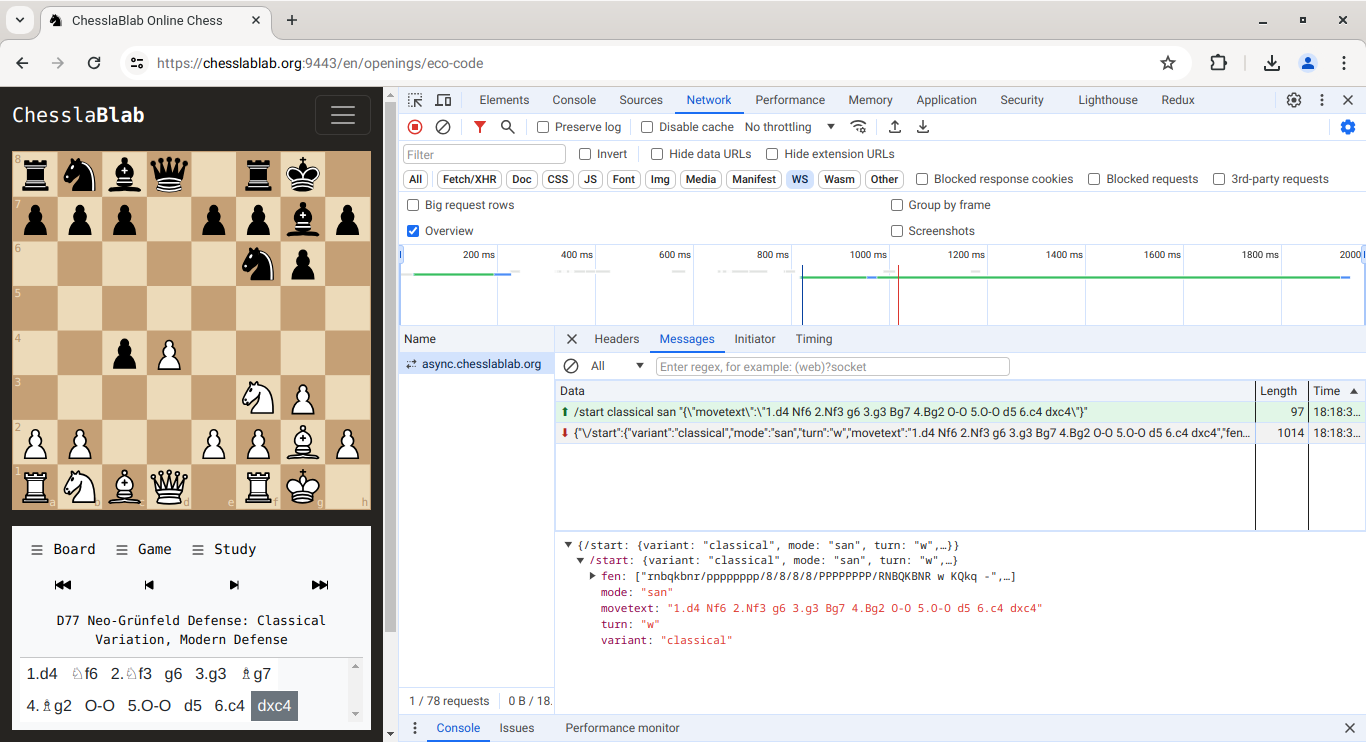
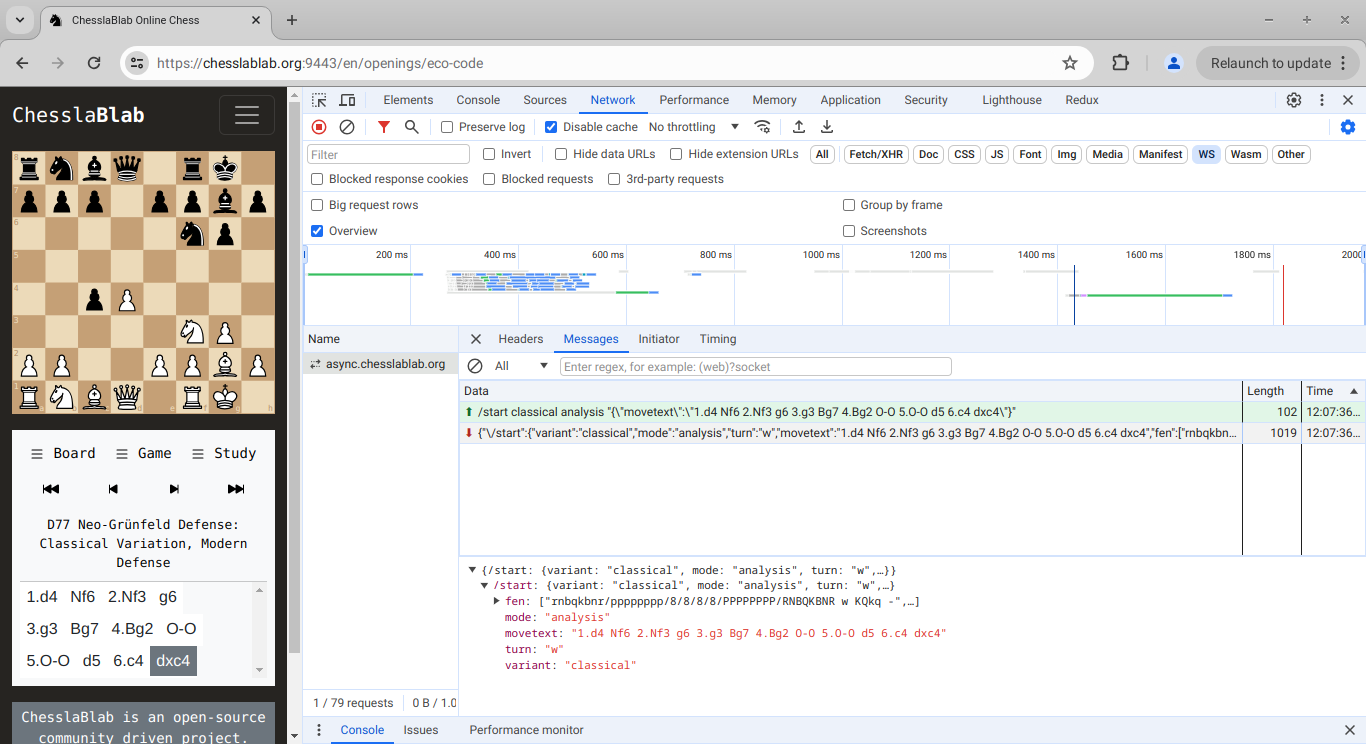
Updated the docs: WebSocket Connection

diff --git a/docs/websocket-connection.md b/docs/websocket-connection.md
@@ -6,19 +6,17 @@ The environment variables required for the chess server can be found in the [ass
 
 As described in [the docs](https://chesslablab.github.io/chess-server/start/), these are the game modes available:
 
-- `fen` is used to start games from specific chess positions.
-- `san` is used to load games from the starting position.
+- `analysis` is used to start games for further analysis.
 - `play` allows to play chess online with other players.
 - `stockfish` allows to play chess against the computer.
 
 The WebSocket ESM modules are implemented based on this same separation of concerns and abstraction:
 
-- [assets/js/FenWebSocket.js](https://github.com/chesslablab/website/blob/main/assets/js/FenWebSocket.js)
-- [assets/js/SanWebSocket.js](https://github.com/chesslablab/website/blob/main/assets/js/SanWebSocket.js)
+- [assets/js/AnalysisWebSocket.js](https://github.com/chesslablab/website/blob/main/assets/js/AnalysisWebSocket.js)
 - [assets/js/PlayWebSocket.js](https://github.com/chesslablab/website/blob/main/assets/js/PlayWebSocket.js)
 - [assets/js/StockfishWebSocket.js](https://github.com/chesslablab/website/blob/main/assets/js/StockfishWebSocket.js)
 
-Let's say you wanted to study a particular chess opening, then a chess game in SAN mode is to be started.
+Let's say you wanted to study a particular chess opening, then a chess game in `analysis` mode is to be started.
 
 ![Figure 1](https://raw.githubusercontent.com/chesslablab/website/main/docs/websocket-connection_01.png)
 
@@ -27,13 +25,13 @@ Let's say you wanted to study a particular chess opening, then a chess game in S
 Data:
 
 ```text
-/start classical san "{\"movetext\":\"1.d4 Nf6 2.Nf3 g6 3.g3 Bg7 4.Bg2 O-O 5.O-O d5 6.c4 dxc4\"}"
+/start classical analysis "{\"movetext\":\"1.d4 Nf6 2.Nf3 g6 3.g3 Bg7 4.Bg2 O-O 5.O-O d5 6.c4 dxc4\"}"
 ```
 
 ```text
 {
   "variant": "classical",
-  "mode": "san",
+  "mode": "analysis",
   "turn": "w",
   "movetext": "1.d4 Nf6 2.Nf3 g6 3.g3 Bg7 4.Bg2 O-O 5.O-O d5 6.c4 dxc4",
   "fen": [
@@ -75,37 +73,43 @@ Remember, the structure of the [App\Controller\Pages](https://github.com/chessla
 - [templates/pages/openings/eco_code/index.html.twig](https://github.com/chesslablab/website/blob/main/templates/pages/openings/eco_code/index.html.twig)
 - [assets/js/pages/openings/eco_code/index.js](https://github.com/chesslablab/website/blob/main/assets/js/pages/openings/eco_code/index.js)
 
-Similarly, if you wanted to study a chess position, then a game in FEN mode needs to be started.
+Similarly, if you wanted to study a chess position, then a FEN string needs to be started.
 
 ![Figure 2](https://raw.githubusercontent.com/chesslablab/website/main/docs/websocket-connection_02.png)
 
-**Figure 2**. Click on **Learn > FEN String** and enter a classical chess position in FEN format.
+**Figure 2**. Click on **Learn > Analysis Board** and enter a classical chess position in FEN format.
 
 Data:
 
 ```text
-/start classical fen "{\"fen\":\"r2q1r1k/1b1nN2p/pp3pp1/8/Q7/PP5P/1BP2RPN/7K w - -\"}"
+/start classical analysis "{\"fen\":\"r2q1r1k/1b1nN2p/pp3pp1/8/Q7/PP5P/1BP2RPN/7K w - -\",\"movetext\":\"\"}"
 ```
 
 ```text
 {
   "variant": "classical",
-  "mode": "fen",
-  "fen": "r2q1r1k/1b1nN2p/pp3pp1/8/Q7/PP5P/1BP2RPN/7K w - -"
+  "mode": "analysis",
+  "turn": "w",
+  "movetext": "",
+  "fen": [
+    "r2q1r1k/1b1nN2p/pp3pp1/8/Q7/PP5P/1BP2RPN/7K w - -"
+  ]
 }
 ```
 
-The JavaScript code for this example can be found in the [assets/js/pages/learn/fen_string/index.js](https://github.com/chesslablab/website/blob/main/assets/js/pages/learn/fen_string/index.js) file.
+The JavaScript code for this example can be found in the [assets/js/pages/learn/analysis/index.js](https://github.com/chesslablab/website/blob/main/assets/js/pages/learn/analysis/index.js) file.
 
 ```js
-import { fenStringModal } from './FenStringModal.js';
-import { fenWebSocket } from '../../../FenWebSocket.js';
+import { FEN } from '@chesslablab/chessboard';
+import { gameForm } from './GameForm.js';
+import { analysisWebSocket } from '../../../AnalysisWebSocket.js';
+import * as mode from '../../../../mode.js';
 
-await fenWebSocket.connect();
+await analysisWebSocket.connect();
 
 sessionStorage.clear();
 
-fenStringModal.props.modal.show();
+analysisWebSocket.send(`/start classical ${mode.ANALYSIS}`);
 ```
 
 The two examples above will give you a sense of the request-response cycle between the web browser and the chess server.
